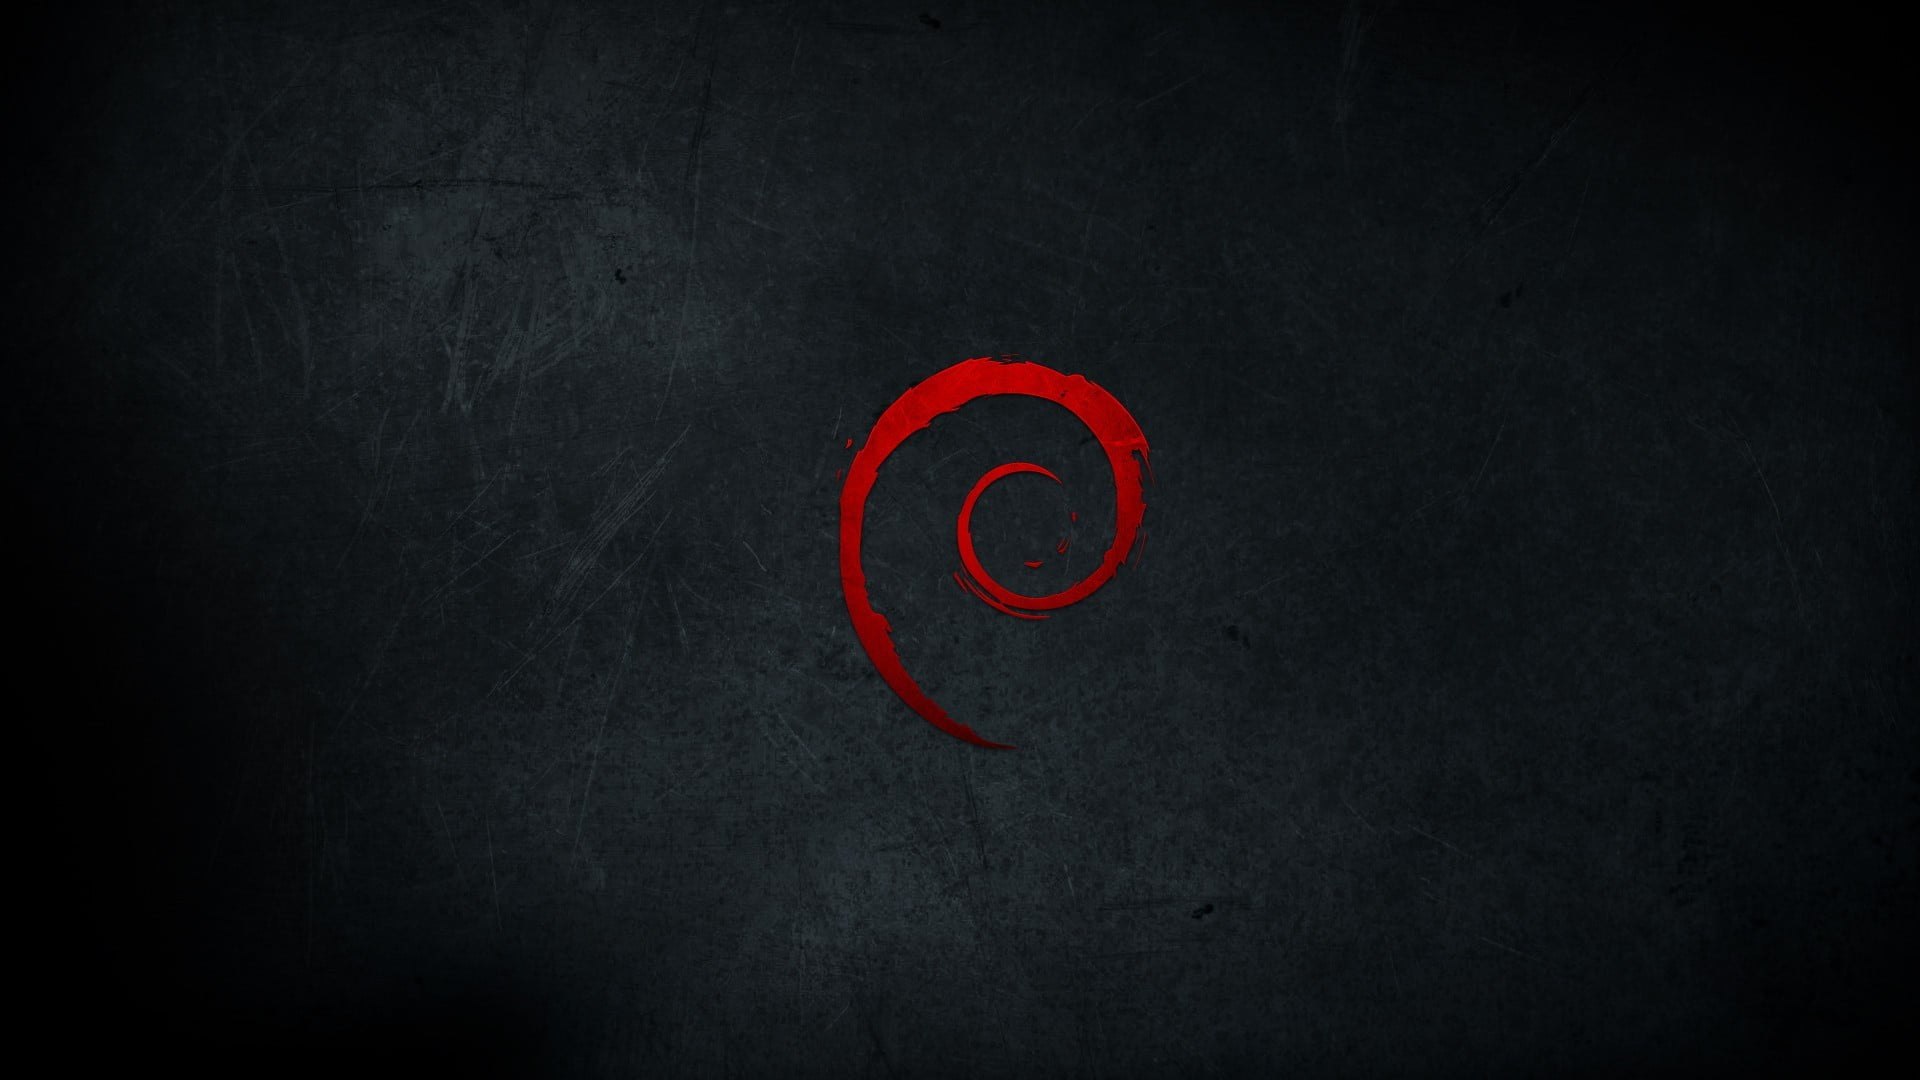
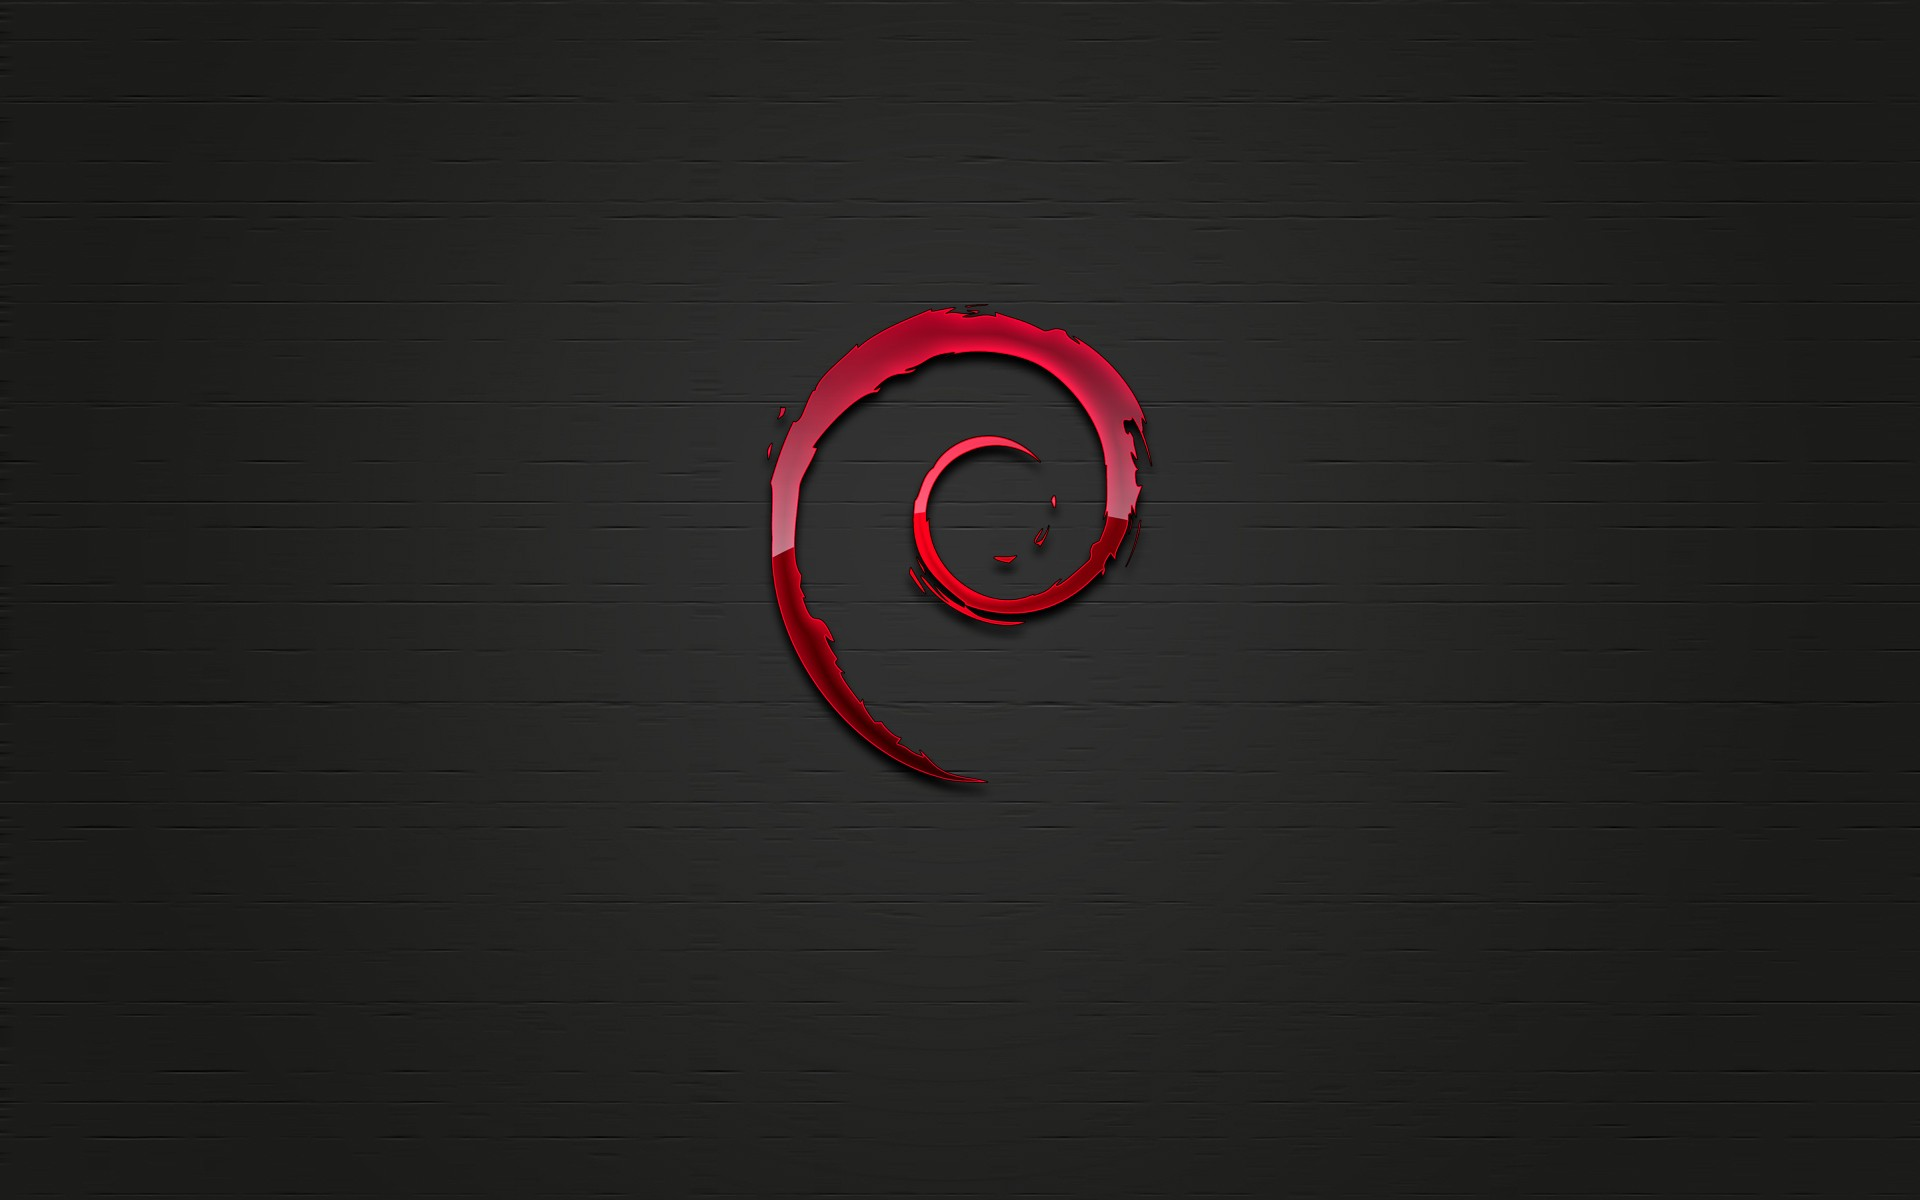
adjusted background pictures and colored other widgets in the deb_window

diff --git a/style.css b/style.css
@@ -1,5 +1,5 @@
 button {
-background-color: purple;
+background-color: magenta;
 color: chartreuse;
 }
 
@@ -56,5 +56,21 @@ background-repeat: no-repeat;
 background-image: url("linux1.jpg");
 background-size: cover;
 background-repeat: no-repeat;
+
+}
+
+
+
+
+checkbutton {
+
+color: #ff0c00;
+
+
+}
+
+.deb_view {
+background: black;
+color: chartreuse;
 
 }

diff --git a/lpih-main.c b/lpih-main.c
@@ -44,7 +44,7 @@ debian_window (GtkWidget *widget,
   
     deb_nvidia_check = gtk_check_button_new_with_label("  Do you have an Nvidia graphics card?");
     gtk_box_append(GTK_BOX(deb_box), deb_nvidia_check);
-
+    
     deb_steam_check = gtk_check_button_new_with_label("  Do you plan on using steam?");
     gtk_box_append(GTK_BOX(deb_box), deb_steam_check);
 
@@ -74,10 +74,12 @@ debian_window (GtkWidget *widget,
     
    // Create a scrolled window and set the size
   GtkWidget *scroll_window = gtk_scrolled_window_new();
+
   gtk_widget_set_size_request(scroll_window, 400, 300);
 
   
   view = gtk_text_view_new ();
+    gtk_widget_add_css_class(view, "deb_view");
   buffer = gtk_text_view_get_buffer (GTK_TEXT_VIEW (view));
   gtk_text_buffer_set_text (buffer, "  sudo apt update && sudo apt upgrade; \n  sudo apt update && sudo apt full-upgrade; \n  sudo apt install build-essential dkms linux-headers-$(uname -r); \n", -1);
   gtk_text_view_set_editable(GTK_TEXT_VIEW(view), FALSE);
